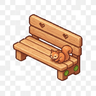
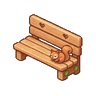
fix: v1.0.1 - Remove checkered backgrounds, fix grass and paths
SPRITE CLEANUP:
- Removed white/checkered pseudo-transparent backgrounds from
  ALL 16 building and environment PNGs
- Pixels with R,G,B all >200 and similar (grey checkered pattern)
  replaced with actual transparency
- All sprites now properly transparent

GRASS FIX:
- Removed isometric tile_grass tiling (created ugly grid seams)
- Replaced with solid green (#5a9a42) + random subtle shade patches
- No more visible tile boundaries

PATH FIX:
- Wider paths (50px instead of 40px)
- Darker edge border for definition
- Subtle center line for detail
- More earthy color, less transparent

https://claude.ai/code/session_016kgqWp6QbTZjAKciTuAqNC

diff --git a/pfotenwelt/src/scenes/TownScene.js b/pfotenwelt/src/scenes/TownScene.js
@@ -60,17 +60,14 @@ export class TownScene extends Phaser.Scene {
     this.cameras.main.centerOn(MAP_W / 2, 400);
     this.cameras.main.setZoom(Math.min(width / MAP_W * 1.8, 1.2));
 
-    // === GREEN GRASS BACKGROUND ===
-    this.add.rectangle(MAP_W / 2, MAP_H / 2, MAP_W, MAP_H, 0x4a8a3a).setDepth(0);
-
-    // Tile grass texture across background
-    if (this.textures.exists('tile_grass')) {
-      for (let gx = 0; gx < MAP_W; gx += 120) {
-        for (let gy = 0; gy < MAP_H; gy += 120) {
-          this.add.image(gx + 60, gy + 60, 'tile_grass')
-            .setDisplaySize(125, 125).setDepth(0).setAlpha(0.4);
-        }
-      }
+    // === GREEN GRASS BACKGROUND (solid + subtle noise) ===
+    this.add.rectangle(MAP_W / 2, MAP_H / 2, MAP_W, MAP_H, 0x5a9a42).setDepth(0);
+    // Add subtle variation patches (no tiling artifacts)
+    for (let i = 0; i < 30; i++) {
+      const gx = Phaser.Math.Between(0, MAP_W);
+      const gy = Phaser.Math.Between(0, MAP_H);
+      const shade = Phaser.Math.Between(0x4a8a3a, 0x6aaa52);
+      this.add.circle(gx, gy, Phaser.Math.Between(40, 100), shade, 0.15).setDepth(0);
     }
 
     // === PATHS (connecting buildings) ===
@@ -278,13 +275,19 @@ export class TownScene extends Phaser.Scene {
 
   drawPath(x1, y1, x2, y2, color) {
     const isHorizontal = Math.abs(y2 - y1) < Math.abs(x2 - x1);
-    const w = isHorizontal ? Math.abs(x2 - x1) : 40;
-    const h = isHorizontal ? 40 : Math.abs(y2 - y1);
+    const pathW = 50;
+    const w = isHorizontal ? Math.abs(x2 - x1) : pathW;
+    const h = isHorizontal ? pathW : Math.abs(y2 - y1);
     const cx = (x1 + x2) / 2;
     const cy = (y1 + y2) / 2;
-    this.add.rectangle(cx, cy, w, h, color, 0.4).setDepth(0);
-    // Path border
-    this.add.rectangle(cx, cy, w + 4, h + 4, 0x8a7a5a, 0.15).setDepth(0);
+    // Path edge (darker)
+    this.add.rectangle(cx, cy, w + 6, h + 6, 0x7a6a4a, 0.5).setDepth(0);
+    // Path fill
+    this.add.rectangle(cx, cy, w, h, color, 0.6).setDepth(0);
+    // Center line (subtle lighter)
+    const cw = isHorizontal ? w - 20 : 4;
+    const ch = isHorizontal ? 4 : h - 20;
+    this.add.rectangle(cx, cy, cw, ch, 0xddccaa, 0.15).setDepth(0);
   }
 
   unlockBuilding(b) {

diff --git a/pfotenwelt/src/scenes/MenuScene.js b/pfotenwelt/src/scenes/MenuScene.js
@@ -3,7 +3,7 @@ import { loadSave, regenerateEnergy, checkDailyLogin, writeSave } from '../data/
 import { checkStoryTrigger, getRandomEvent } from '../data/StoryData.js';
 import { BREEDS } from '../data/PetData.js';
 
-export const GAME_VERSION = 'v1.0.0';
+export const GAME_VERSION = 'v1.0.1';
 
 export class MenuScene extends Phaser.Scene {
   constructor() { super('Menu'); }
